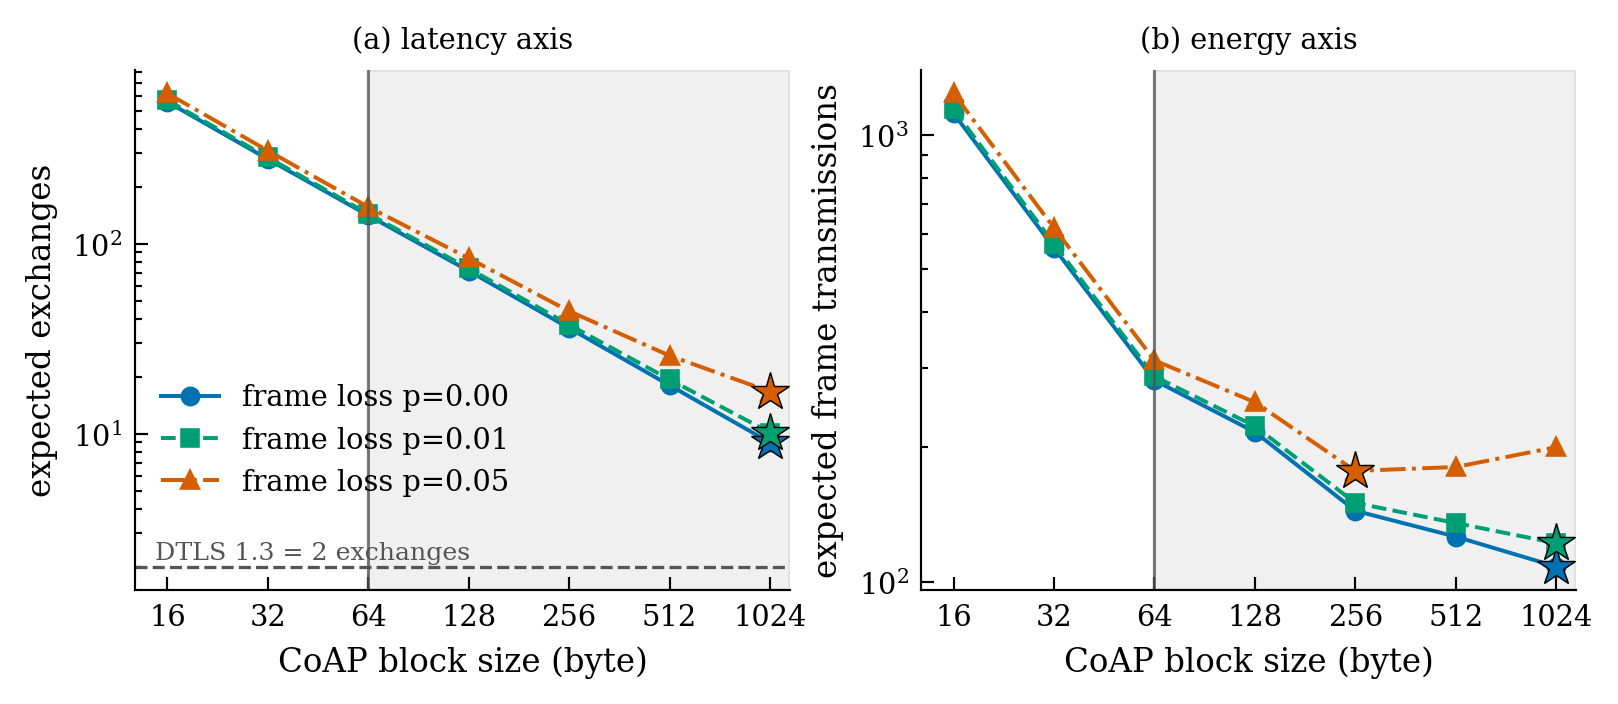
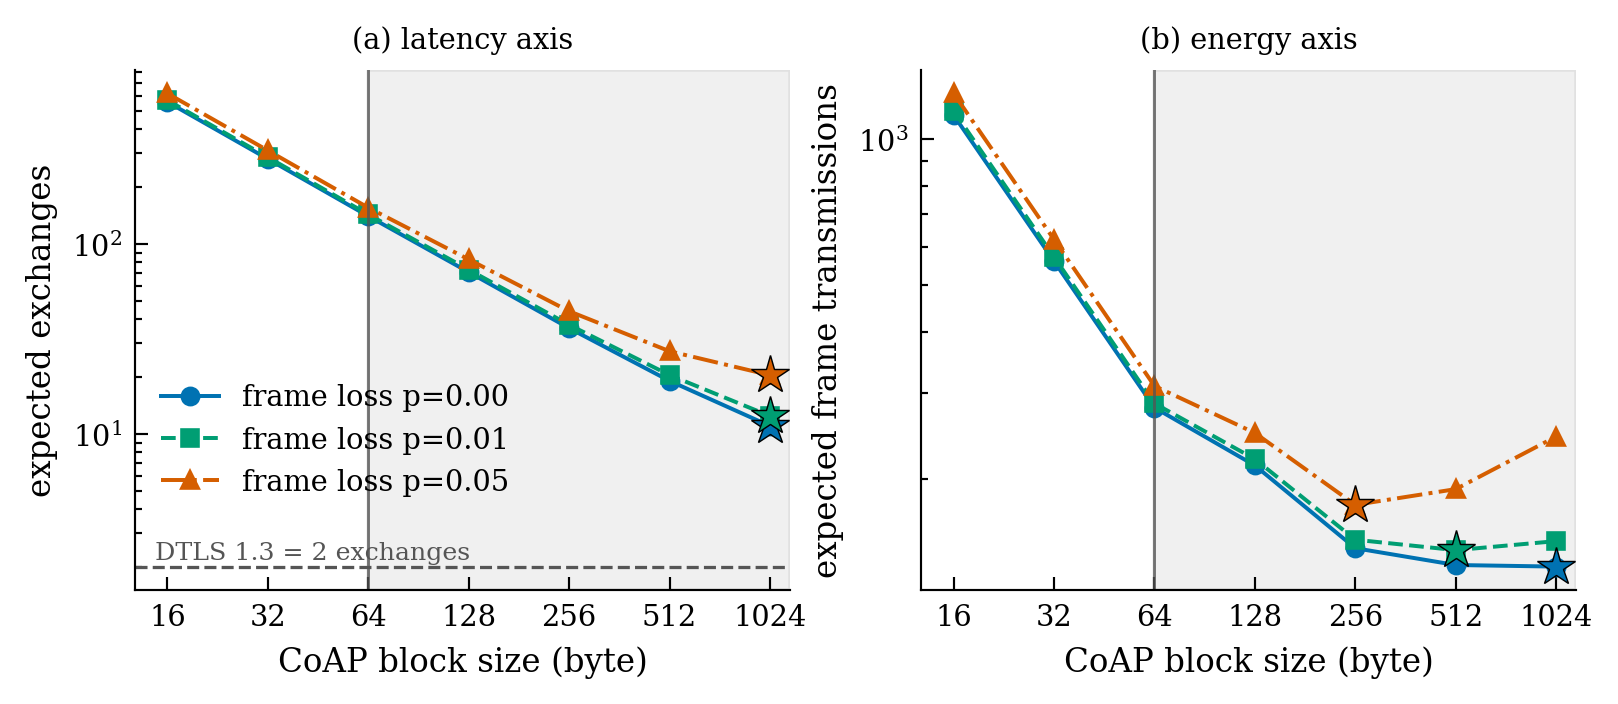
Measure the DTLS comparator instead of citing it; correct the ratio; drop 1.3 from the title
Answering the two heaviest points of an external review.

The comparison was a measured EDHOC count against a cited DTLS count, and the
paper's own survey showed two of three implementations cannot complete at
post-quantum sizes, so the cited count might not be reachable. It is now
measured. mbedTLS completes every handshake from 32 to 94 fragments at a 102 B
MTU, with datagrams growing 55 to 115 while direction changes stay at 6. At 94
fragments, more than twice what a post-quantum handshake needs, the round-trip
count has not moved. Certificate chains rather than larger keys were needed,
since the library rejects keys past its maximum integer size.

The review asserted that mbedTLS and GnuTLS support DTLS 1.3 and that the
measurements should use it. They do not. GnuTLS lists protocol versions up to
DTLS 1.2, mbedTLS accepts tls12, dtls12 and tls13 but has no dtls13, and
OpenSSL's s_server has no DTLS 1.3 option. Four years after RFC 9147, its
two-round-trip figure is not obtainable from any of the three. The title drops
the version, the text states which version was measured, and the invariance
rather than the constant's value is what the measurement establishes.

The claim that the optimum block size leaves the count an order of magnitude
above DTLS was wrong, and finding out why was worth more than the correction.
blocksize_cost still divided the total by three, the equal-split approximation
[…]

diff --git a/measure/m4_dtls_pq_rounds.py b/measure/m4_dtls_pq_rounds.py
@@ -1,0 +1,131 @@
+"""M4 — SO VONG cua DTLS o co hau luong tu, DO DUOC chu khong trich RFC.
+
+⛔ VI SAO CAN. Doc ngoai bat dung lo: bai so mot so luot EDHOC DO DUOC voi mot so vong DTLS
+TRICH TU RFC 9147, trong khi chinh khao sat cua bai cho thay hai trong ba cai dat khong hoan
+tat noi o co do. Nguyen van: "a measured EDHOC count against an unmeasured and possibly
+unattainable DTLS count."
+
+Tep nay do SO VONG that su cua DTLS, bang dung dai luong da dung cho CoAP: so lan luong DOI
+CHIEU tren day. Chung thu dung CHUOI RSA-8192 vi mbedTLS khong nap noi khoa lon hon
+(MBEDTLS_MPI_MAX_SIZE), nen phai lam bang tin to ra ma khong lam khoa to ra.
+"""
+import io
+import json, os, re, socket, subprocess, sys, threading, time
+
+HERE = os.path.dirname(os.path.abspath(__file__))
+CERTS = os.path.join(HERE, ".certs")
+MB = os.path.expanduser("~/mbedtls-src/programs/ssl")
+MTU = 102
+SRV, RLY = 20901, 20902
+
+
+class Relay(threading.Thread):
+    def __init__(self):
+        super().__init__(daemon=True)
+        self.s = socket.socket(socket.AF_INET, socket.SOCK_DGRAM)
+        self.s.setsockopt(socket.SOL_SOCKET, socket.SO_REUSEADDR, 1)
+        # ⚠ DTLS ban ca FLIGHT lien tiep, khac CoAP lock-step tung goi mot. Relay dung bo dem
+        # mac dinh thi TRAN trong luc bung, mat goi, va bat tay hong -- dung phep do chu khong
+        # dung giao thuc. Chinh la khac biet ma bai nay dang do.
+        self.s.setsockopt(socket.SOL_SOCKET, socket.SO_RCVBUF, 4 << 20)
+        self.s.setsockopt(socket.SOL_SOCKET, socket.SO_SNDBUF, 4 << 20)
+        self.s.bind(("127.0.0.1", RLY)); self.s.settimeout(0.05)
+        self.srv = ("127.0.0.1", SRV); self.cli = None
+        self.c2s = self.s2c = self.turns = 0; self.last = None; self.stop = False
+
+    def run(self):
+        while not self.stop:
+            try: data, addr = self.s.recvfrom(65535)
+            except socket.timeout: continue
+            except OSError: break
+            d = "s2c" if addr == self.srv else "c2s"
+            if d == "c2s": self.cli = addr; self.c2s += 1; dst = self.srv
+            else: self.s2c += 1; dst = self.cli
+            if self.last is not None and d != self.last: self.turns += 1
+            self.last = d
+            if dst:
+                try: self.s.sendto(data, dst)
+                except OSError: pass
+
+
+def run_case(crt, key):
+    size = os.path.getsize(crt)
+    srv = subprocess.Popen(
+        [os.path.join(MB, "ssl_server2"), "dtls=1", "server_port=%d" % SRV,
+         "mtu=%d" % MTU, "crt_file=%s" % crt, "key_file=%s" % key,
+         "server_addr=127.0.0.1"], stdout=subprocess.DEVNULL,
+        stderr=subprocess.DEVNULL, stdin=subprocess.DEVNULL)
+    time.sleep(1.3)
+    r = Relay(); r.start()
+    # ⚠ Bat stdout bang PIPE tra ve RONG du client co chay va datagram VAN di qua relay.
+    # Ghi thang ra TEP thi bat duoc, dung nhu lan go loi thu cong da chay. Chon cach DA CHUNG
+    # MINH LA CHAY, khong chon cach gon hon ma chua kiem.
+    logf = "/tmp/m4_cli.log"
+    with open(logf, "wb") as fh:
+        p = subprocess.Popen(
+            [os.path.join(MB, "ssl_client2"), "dtls=1", "server_port=%d" % RLY,
+             "mtu=%d" % MTU, "server_addr=127.0.0.1", "auth_mode=none"],
+            stdin=subprocess.DEVNULL, stdout=fh, stderr=subprocess.STDOUT,
+            start_new_session=True)
+        try:
+            p.wait(timeout=90)
+        except subprocess.TimeoutExpired:
+            os.killpg(os.getpgid(p.pid), 9)
+            p.wait(timeout=5)
+    out = io.open(logf, encoding="utf-8", errors="replace").read()
+
+    time.sleep(0.5); r.stop = True; r.join(timeout=2); r.s.close()
+    srv.terminate()
+    try: srv.wait(timeout=5)
+    except subprocess.TimeoutExpired: srv.kill()
+    # ⚠ Bo do ban dau doi dung chuoi "Ciphersuite is TLS-". Chay truc tiep thi khop, chay
+    # qua relay thi KHONG, du bat tay VAN XONG (client in "Verifying peer X.509 ... ok" roi
+    # ghi duoc du lieu). Lai la ca bo do bat sai chu khong phai giao thuc hong. Nen doi bang
+    # chung sang thu chi ca THANH CONG moi sinh ra, va IN RA khi khong khop de con go.
+    ok = bool(re.search(r"Ciphersuite is \S+", out)) or          bool(re.search(r"Verifying peer X\.509 certificate\.\.\. ok", out))
+    if not ok:
+        tail = " | ".join(x.strip() for x in out.strip().splitlines()[-3:])
+        print("       (khong khop bo do; ba dong cuoi: %s)" % tail[:150])
+    return {"cert": os.path.basename(crt), "cert_bytes": size,
+            "frags_est": -(-size // MTU), "handshake_ok": ok,
+            "datagrams": r.c2s + r.s2c, "turns": r.turns}
+
+
+def main():
+    cases = [("c8192.pem", "k8192.pem"), ("chain2.pem", "leaf.key"),
+             ("chain3.pem", "leaf.key")]
+    print("  mbedTLS DTLS 1.2 · MTU %d B · dem DATAGRAM va SO LAN DOI CHIEU\n" % MTU)
+    print("  %-12s %7s %6s %10s %8s   %s" % ("chung thu", "byte", "manh",
+                                             "datagram", "VONG", "bat tay"))
+    print("  " + "-" * 62)
+    rows = []
+    for c, k in cases:
+        cp, kp = os.path.join(CERTS, c), os.path.join(CERTS, k)
+        if not (os.path.exists(cp) and os.path.exists(kp)):
+            print("  %-12s (thieu tep)" % c); continue
+        r = run_case(cp, kp); rows.append(r)
+        print("  %-12s %7d %6d %10d %8d   %s"
+              % (r["cert"], r["cert_bytes"], r["frags_est"], r["datagrams"],
+                 r["turns"], "✅" if r["handshake_ok"] else "⛔"))
+    ok = [r for r in rows if r["handshake_ok"]]
+    print()
+    if len(ok) >= 2:
+        a, z = ok[0], ok[-1]
+        print("  Tu %d len %d manh (x%.1f):" % (a["frags_est"], z["frags_est"],
+                                                z["frags_est"] / a["frags_est"]))
+        print("    datagram x%.2f · VONG x%.2f"
+              % (z["datagrams"] / max(1, a["datagrams"]),
+                 z["turns"] / max(1, a["turns"])))
+        print("  => so vong DTLS o co hau luong tu gio la SO DO DUOC, khong con la so trich.")
+    out = os.path.join(os.path.dirname(HERE), "results", "m4_dtls_pq_rounds.json")
+    os.makedirs(os.path.dirname(out), exist_ok=True)
+    with open(out, "w", encoding="utf-8") as f:
+        json.dump({"impl": "mbedtls 3.6.2", "dtls_version": "1.2", "mtu": MTU,
+                   "counted": "UDP datagrams + direction changes via relay",
+                   "rows": rows}, f, indent=2, ensure_ascii=False)
+    print("\n  → %s" % os.path.basename(out))
+    return 0
+
+
+if __name__ == "__main__":
+    sys.exit(main())

diff --git a/figures/make_figures.py b/figures/make_figures.py
@@ -199,7 +199,7 @@ def fig_exchanges(m1):
 # HÌNH 3 — HÌNH CHÍNH: quét cỡ khối, hai trục tối ưu LỆCH nhau, trần RIOT
 # ══════════════════════════════════════════════════════════════════════════════
 def fig_blocksize():
-    total = sum(M.pq_messages("ML-KEM-768", "ML-DSA-65").values())
+    msgs = M.pq_messages("ML-KEM-768", "ML-DSA-65")
     fig, (a1, a2) = plt.subplots(1, 2, figsize=(W2, 2.6))
 
     for ax, idx, ylab, ttl in ((a1, 0, "expected exchanges", "(a) latency axis"),
@@ -207,7 +207,7 @@ def fig_blocksize():
         for p, col, mk, ls in ((0.00, C["blue"], "o", "-"),
                                (0.01, C["green"], "s", "--"),
                                (0.05, C["verm"], "^", "-.")):
-            ys = [M.blocksize_cost(total, b, p)[idx] for b in M.BLOCK_SIZES]
+            ys = [M.blocksize_cost(msgs, b, p)[idx] for b in M.BLOCK_SIZES]
             ax.plot(M.BLOCK_SIZES, ys, color=col, marker=mk, ls=ls,
                     label="frame loss p=%.2f" % p)
             best = min(range(len(ys)), key=lambda i: ys[i])
@@ -371,7 +371,7 @@ def tables(m1, m3):
             "implementations and not the DTLS protocol.", wide=True))
 
 
-def captions(m1, m3):
+def captions(m1, m3, m4=None):
     """Sinh CAPTION ra .tex.
 
     Caption chứa số (tỉ số, số ô khớp, ngưỡng), nên nó cũng là bề mặt tuyên bố và cũng phải
@@ -472,6 +472,14 @@ def captions(m1, m3):
     # chỗ ở thứ hai: đổi MAC_AND_SEC trong model.py thì hình đổi mà câu văn thì không.
     nums["numKemFrameRatio"] = "%.1f" % (M.KEM["ML-KEM-512"][0] / M.FRAME_PAYLOAD)
     nums["numDecompError"] = "%.1f" % abs(M.decomposition_error()[2])
+    # Toi uu co khoi va ti so so voi DTLS: doc ngoai bat duoc bai noi "an order of magnitude"
+    # trong khi so that la 5,5x. Con so nay phai SINH RA, khong duoc mo ta bang tinh tu.
+    _m = M.pq_messages("ML-KEM-768", "ML-DSA-65")
+    _best = min(M.BLOCK_SIZES, key=lambda b: M.blocksize_cost(_m, b, 0.0)[0])
+    _rt = M.blocksize_cost(_m, _best, 0.0)[0]
+    nums["numBestBlock"] = _best
+    nums["numBestExch"] = "%.0f" % _rt
+    nums["numBestRatio"] = "%.1f" % (_rt / M.DTLS_FLIGHT_RT)
     if m3:
         g = [r for r in m3["rows"] if r["impl"] == "gnutls"]
         gok = [r["frags_est"] for r in g if r["handshake_ok"]]
@@ -488,6 +496,20 @@ def captions(m1, m3):
         if bad and ok:
             nums["numOpensslFewFragFail"] = min(r["frags_est"] for r in bad)
             nums["numOpensslManyFragOk"] = max(r["frags_est"] for r in ok)
+    # M4: so vong DTLS DO DUOC o co hau luong tu. Doc ngoai bat dung lo nay -- truoc do bai
+    # so mot so luot EDHOC do duoc voi mot so vong DTLS TRICH TU RFC.
+    if m4:
+        ok = [r for r in m4["rows"] if r["handshake_ok"]]
+        if ok:
+            nums["numDtlsMeasTurns"] = ok[0]["turns"]
+            nums["numDtlsMaxFrag"] = max(r["frags_est"] for r in ok)
+            nums["numDtlsMinFrag"] = min(r["frags_est"] for r in ok)
+            nums["numDtlsDatagramLo"] = min(r["datagrams"] for r in ok)
+            nums["numDtlsDatagramHi"] = max(r["datagrams"] for r in ok)
+            nums["numDtlsDatagramGrowth"] = "%.2f" % (
+                max(r["datagrams"] for r in ok) / min(r["datagrams"] for r in ok))
+            nums["numDtlsImpl"] = m4["impl"]
+            nums["numDtlsMeasVersion"] = m4["dtls_version"]
     write_tex("numbers.tex",
               "\n".join(r"\newcommand{\%s}{%s}" % (k, v) for k, v in nums.items()) + "\n")
 
@@ -501,6 +523,7 @@ def main():
     print()
     print("  XUẤT XỨ SỐ ĐO:")
     m1 = load("m1_coap_blockwise.json", "M1 CoAP block-wise")
+    m4 = load("m4_dtls_pq_rounds.json", "M4 số vòng DTLS ở cỡ PQ")
     m3 = load("m3_fragment_threshold.json", "M3 khảo sát cài đặt",
               expect=("gnutls", "mbedtls", "openssl"))
     print()
@@ -513,7 +536,7 @@ def main():
     print("  BẢNG:")
     tables(m1, m3)
     print("  CAPTION:")
-    captions(m1, m3)
+    captions(m1, m3, m4)
     print()
     missing = [n for n, v in (("M1", m1), ("M3", m3)) if v is None]
     if missing:

diff --git a/paper/sec-results.tex b/paper/sec-results.tex
@@ -45,9 +45,31 @@ claimed here.
 
 With that model, a post-quantum EDHOC handshake at ML-KEM-768 and ML-DSA-65 takes
 \numExchTotalPQ{} exchanges: \numExchOnePQ{} for message\_1 alone, whose \numMsgOnePQ~B do not
-fit in a \numFramePayload~B frame. DTLS~1.3 fragments at its own handshake layer and sends
-each flight back-to-back, so its round-trip count stays at \numDtlsRT{} regardless of size
-\cite{rfc9147}. Fig.~\ref{fig:exchanges} shows both.
+fit in a \numFramePayload~B frame. Fig.~\ref{fig:exchanges} shows the growth.
+
+\subsection{The DTLS comparator, measured rather than cited}
+
+DTLS fragments at its own handshake layer and sends each flight back-to-back, so its
+round-trip count should not grow with size \cite{rfc9147}. We measure this rather than assume
+it, at the same MTU and with the same relay. Certificate \emph{chains} are used to enlarge the
+handshake without enlarging the key, since the library rejects keys beyond its configured
+maximum integer size (Section~\ref{sec:threats}).
+
+Across \numDtlsMinFrag{} to \numDtlsMaxFrag{} fragments, \numDtlsImpl{} completes every
+handshake, and the datagram count grows from \numDtlsDatagramLo{} to \numDtlsDatagramHi{}
+($\times\numDtlsDatagramGrowth$) while the number of direction changes stays at
+\numDtlsMeasTurns{} throughout. The flight structure is therefore not an idealisation: at
+\numDtlsMaxFrag{} fragments, more than twice what a post-quantum handshake requires, the
+round-trip count has not moved.
+
+Two qualifications matter. The measurement is DTLS~\numDtlsMeasVersion, because none of the
+three implementations offers DTLS~1.3 over datagrams: GnuTLS lists protocol versions up to
+DTLS~1.2 only, mbedTLS accepts \texttt{tls12}, \texttt{dtls12} and \texttt{tls13} but no
+\texttt{dtls13}, and OpenSSL's \texttt{s\_server} has no DTLS~1.3 option. Four years after
+RFC~9147, the two-round-trip figure it specifies is not obtainable from any of them. And the
+constant here is \numDtlsMeasTurns{} direction changes rather than the \numDtlsRT{} round
+trips of DTLS~1.3, since DTLS~1.2 carries more flights; what is measured is the invariance,
+not the constant's value.
 
 The threshold, not the ratio, is what matters. Classically an EDHOC message fits inside one
 frame and block-wise never engages, so both protocols take \numDtlsRT{} round trips and
@@ -73,7 +95,7 @@ result.
 \textbf{GnuTLS is bounded by fragment count.} It completes at MTU~\numFramePayload, so no MTU
 floor applies, but it completes up to \numGnutlsFragOk{} fragments and fails from
 \numGnutlsFragBad{}. The failures are not an artefact of an impatient
-harness: given an allowance an order of magnitude beyond the probe timeout, the client still
+harness: given an allowance far beyond the probe timeout, the client still
 abandons the handshake on its own retransmission schedule, well inside that allowance. At
 \numFramePayload~B, \numGnutlsFragOk{} fragments cap a handshake message at about
 \numGnutlsCapKB~kB, which post-quantum credentials exceed.
@@ -95,8 +117,9 @@ reduce the exchange count, but each block then exceeds the frame and is fragment
 adaptation layer, where a lost fragment costs the whole block~\cite{rfc4944,rfc6282}. RFC~9177~\cite{rfc9177} defines
 block options that would reduce this cost, but neither constrained stack examined here
 implements them and the EDHOC-over-CoAP profile does not reference them. The optimum lies at the
-boundary of the permitted range rather than inside it, and even there the count remains an
-order of magnitude above DTLS.
+boundary of the permitted range rather than inside it, at \numBestBlock~B, and even there the
+count is \numBestExch{} exchanges against \numDtlsRT{} DTLS flights, a factor of
+$\numBestRatio\times$.
 
 Two further points close the objection. The optimum is not reachable on RIOT, whose
 \texttt{CONFIG\_NANOCOAP\_BLOCK\_SIZE\_MAX} is a compile-time ceiling at \numCoapBlock~B; and

diff --git a/paper/main.tex b/paper/main.tex
@@ -23,7 +23,7 @@
 \begin{document}
 
 \title{Does the Lightweight Handshake Stay Lightweight?\\
-EDHOC, DTLS~1.3 and Post-Quantum Credentials on IEEE~802.15.4 Links}
+EDHOC, DTLS and Post-Quantum Credentials on IEEE~802.15.4 Links}
 \author{Phuc~Hao~Do%
 \thanks{P.~H.~Do is with CAIRA, Danang Architecture University, Da Nang, Viet Nam
 (e-mail: haodp@dau.edu.vn).}%
@@ -38,8 +38,8 @@ on IEEE~802.15.4 hardware confirm the size reduction while also showing that it 
 into a considerably smaller gain in handshake duration. We ask what remains of the argument
 once credentials become post-quantum. Because an EDHOC message then no longer fits inside one
 802.15.4 frame, CoAP block-wise transfer engages and the handshake becomes a sequence of
-acknowledged blocks, while DTLS fragments at its own handshake layer and keeps its round-trip
-count fixed; the EDHOC-over-CoAP profile itself makes its two-round-trip minimum conditional on
+acknowledged blocks, while DTLS fragments at its own handshake layer and holds its round-trip
+count fixed, which we measure rather than cite; the EDHOC-over-CoAP profile itself makes its two-round-trip minimum conditional on
 exactly the size condition that post-quantum keys break. We validate an exchange-count model
 against an independent CoAP implementation, and sweep the full range of permitted block sizes
 to show that no setting recovers the round trips. Separately, and with classical credentials

diff --git a/analysis/model.py b/analysis/model.py
@@ -112,14 +112,19 @@ def frags_for(nbytes):
     return 1 if nbytes <= FRAME_PAYLOAD else ceil_div(nbytes, PAYLOAD_PER_FRAG)
 
 
-def blocksize_cost(total_bytes, block, p_loss):
+def blocksize_cost(msgs, block, p_loss):
     """Kỳ vọng (số lượt, số khung phải phát) cho một cỡ khối, dưới tỉ lệ mất khung p_loss.
 
     Mỗi khối là một lượt CON, phải qua được cả chiều đi lẫn chiều về; khối hỏng thì truyền
     lại, nên kỳ vọng số lượt = số khối / P(qua).
+
+    ⛔ BẢN TRƯỚC NHẬN `total_bytes` RỒI CHIA ĐỀU CHO 3. Đó là xấp xỉ tôi đã bỏ ở
+    `pq_messages()` nhưng QUÊN bỏ ở đây, nên `model.py` tự mâu thuẫn với chính nó: hai hàm
+    trong cùng một tệp trả lời khác nhau cho cùng một câu hỏi. Đọc ngoài bắt được: ở cỡ khối
+    1024 thì chia đều cho 9 lượt, còn tính đúng từng bản tin cho **11** (2+5+4). Nay nhận
+    THẲNG dict kích thước từng bản tin để không thể lặp lại.
     """
-    per_msg = total_bytes / N_EDHOC_MSG
-    n_blocks = N_EDHOC_MSG * ceil_div(int(per_msg), block)
+    n_blocks = sum(ceil_div(v, block) for v in msgs.values())
     f = frags_for(block)
     p_ok = (1 - p_loss) ** (f + 1)
     if p_ok <= 0:

diff --git a/figures/out/numbers.tex b/figures/out/numbers.tex
@@ -27,7 +27,18 @@
 \newcommand{\numOpensslMtuOk}{300}
 \newcommand{\numKemFrameRatio}{7.8}
 \newcommand{\numDecompError}{4.2}
+\newcommand{\numBestBlock}{1024}
+\newcommand{\numBestExch}{11}
+\newcommand{\numBestRatio}{5.5}
 \newcommand{\numGnutlsCapKB}{2.3}
 \newcommand{\numMbedtlsMaxFrag}{32}
 \newcommand{\numOpensslFewFragFail}{5}
 \newcommand{\numOpensslManyFragOk}{19}
+\newcommand{\numDtlsMeasTurns}{6}
+\newcommand{\numDtlsMaxFrag}{94}
+\newcommand{\numDtlsMinFrag}{32}
+\newcommand{\numDtlsDatagramLo}{55}
+\newcommand{\numDtlsDatagramHi}{115}
+\newcommand{\numDtlsDatagramGrowth}{2.09}
+\newcommand{\numDtlsImpl}{mbedtls 3.6.2}
+\newcommand{\numDtlsMeasVersion}{1.2}
